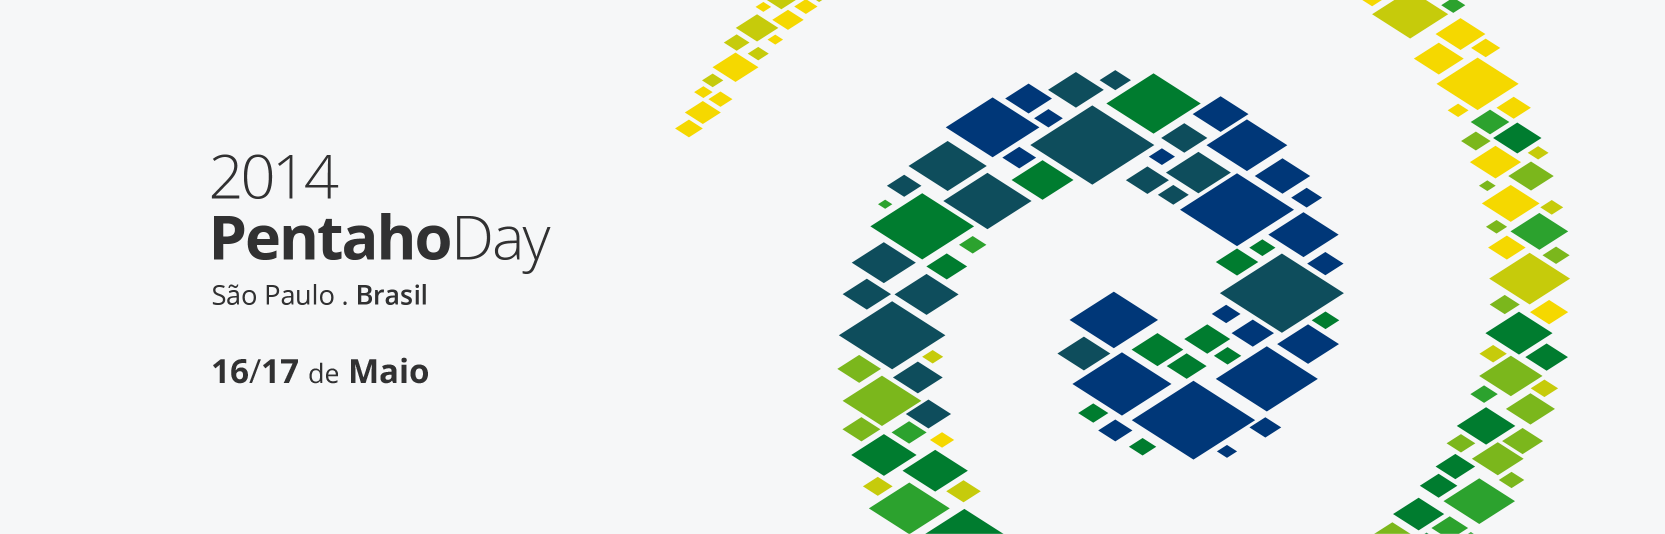
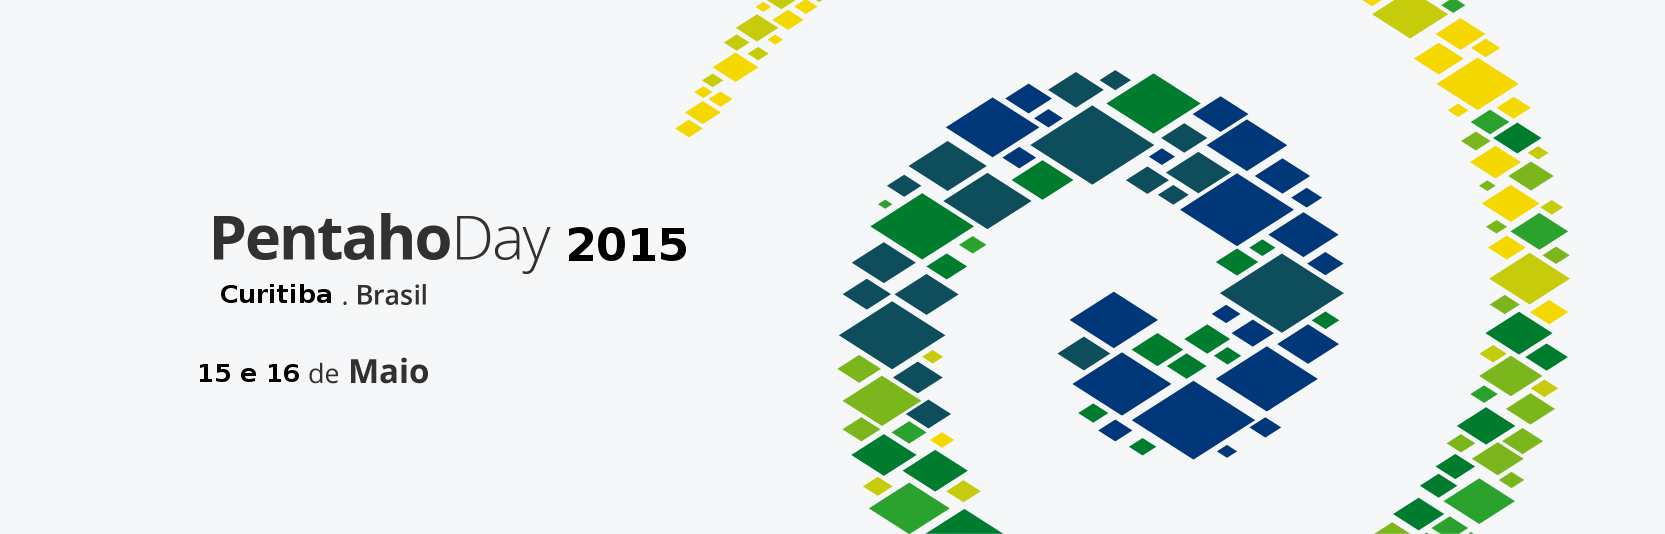
alterado site com informaçoes basicas para 2015

diff --git a/index.html b/index.html
@@ -8,11 +8,11 @@
 	<head>
 		<meta charset="utf-8">
 		<meta http-equiv="X-UA-Compatible" content="IE=edge,chrome=1">
-		<title>Pentaho Day 2014 • Maio 16 e 17 • São Paulo, Brasil</title>
+		<title>Pentaho Day 2015 • Maio 15 e 16 • Curitiba, Brasil</title>
 		<meta name="description" content="This is a community event and includes anyone that has a passion for Pentaho (being EE or CE users) and want to see the huge ammount of amazing stuff that 
 		other people build around the world.">
 		<meta name="viewport" content="width=device-width">
-		<meta property="og:image" content="http://www.pentahobrasil.com.br/eventos/PentahoDay_2014/img/PentahoDay_2014.png" />
+		<meta property="og:image" content="http://www.pentahobrasil.com.br/eventos/PentahoDay_2015/img/PentahoDay_2014.png" />
 		<link href='http://fonts.googleapis.com/css?family=Open+Sans:400,300,600,700,800' rel='stylesheet' type='text/css'>
 		<link rel="stylesheet" href="css/bootstrap.css">
 		<style>
@@ -60,14 +60,18 @@
 				<div class="container">
 					<div class="row">
 						<ul class="tabs">
-						<li id="selected"><a class="programa" href="index.html"><span style="font-weight:300">Programação</span> 16 Maio</a></li>
-						<li><a a class="programa" href="index_17Maio.html"><span style="font-weight:300">Programação</span> 17 Maio</a></li>
+						<li id="selected"><a class="programa" href="index.html"><span style="font-weight:300">Evento e Palestrantes</span></a></li>
+						<li><a a class="programa" href="index.html"><span style="font-weight:300">Programação</span></a></li>
+						<li><a a class="programa" href="/blog/index.php"><span style="font-weight:300">Blog</span></a></li>
 						<li><a a class="programa" href="inscricoes.html"><span style="font-weight:300">Inscreva-se <b>aqui</b></span></a></li>
+
 						</ul>
+<!--
 					<div class="row daysRow">
 						<h2 class="titleSpan">Maio</h2>
-						<div class="span4 date"><img src="img/16.png" alt="17" id="number16"/></div>
+						<div class="span4 date"><img src="img/15.png" alt="17" id="number15"/></div>
 					</div>
+-->
 					</div>
 				</div>
 			<div class="row"></div>
@@ -86,13 +90,13 @@
 			                                       Open Source na plataforma Pentaho.
 					</div>
 					<div class="span4 firstcolumn">
-						Venha fortalecer a sua comunidade, inscreva-se já e faça parte deste evento que acontecerá na FEA-USP, em São Paulo, Brasil.
+						Venha fortalecer a sua comunidade, inscreva-se já e faça parte deste evento que acontecerá na Universidade Positivo, em Curitiba, Brasil.
 					</div>
 				</div>
 				<div class="row">
 					<div class="span4">
 <a href="http://iptv.usp.br/portal/home" target="_blank">
-						<button class="btn span8 trans" id="transmissao">Transmissão online.</button></a>                    </div>
+						<button class="btn span8 trans" id="transmissao">Mini-Cursos</button></a>                    </div>
 					<div class="span8 offset42">
                      <a href="https://pentahoday2014-fea.eventbrite.com" target="_blank">
 						<button class="btn span8 register" id="firstRegister">O evento é gratuito! Faça a sua inscrição!</button></a></span>
@@ -106,10 +110,10 @@
 						<h2>Palestrantes</h2>
 					</div>
 					<div class="span4 firstcolumn">Durante os últimos anos, a Comunidade Pentaho tem se reunido para trocar experiências e se conhecer pessoalmente.</div>
-					<div class="span4 firstcolumn">Conheça aqui quem terá presença marcada neste evento. </div>
+					<div class="span4 firstcolumn">Conheça aqui <B>em Breve</B> quem terá presença marcada neste evento. </div>
 				</div>
                 
-            
+ <!--            
      		<div class="row oradores1">
 				<div class="span2 oradores">
 					<div class="orador-picture" id="picture1">
@@ -147,7 +151,7 @@
 				</div>
 			</div>
             
-                 <!--<div class="span2 oradores" style="">
+                <div class="span2 oradores" style="">
 				<div class="orador-picture" id="picture18">
 					<div class="text_display">
 						<p class="autor">Felipe Dias</p>
@@ -156,7 +160,7 @@
 				</div>
 			</div>-->
             
-            
+<!--            
         </div>
 		<div class="row oradores2">
 			<div class="span2 oradores">
@@ -209,7 +213,7 @@
 		</div>
 
 		<div class="row oradores4">
-        
+-->        
               <!--<div class="span2 oradores" style="">
 				<div class="orador-picture" id="picture7">
 						<div class="text_display">
@@ -218,7 +222,8 @@
 					</div>
 				</div>
 			</div>-->
-                    
+ 
+<!--                   
 			<div class="span2 oradores">
 				<div class="orador-picture" id="picture8">
 					<div class="text_display">
@@ -257,7 +262,7 @@
             
             		
 		</div> 
-        
+  -->      
         
 		<hr>
         <div class="row">
@@ -267,14 +272,15 @@
 			</div>
 			<div class="span8">
 				<a href="PentahoDay_Programa16&17Maio.pdf" target="_blank">
-				<button class="btn span8 pdf" style="margin-top: 23px;" id="secondRegister"><span style="font-weight:600">Pentaho</span>Day - Programa - 16 e 17 de Maio</button>
+				<button class="btn span8 pdf" style="margin-top: 23px;" id="secondRegister"><span style="font-weight:600">Pentaho</span>Day - Programa - 15 e 16 de Maio - EM BREVE PROGRAMAÇÃO</button>
 				</a>
 			</div>
 		</div>
-                
+<!--                
         <hr programa></hr>				   
         <div class="row">
-            <div class="programaseparador">16 MAIO - Welcome Coffee</div>
+            <div class="programaseparador">15 MAIO - Welcome Coffee</div>
+
         </div>
 		<div class="row">
 			<div class="span4">
@@ -470,9 +476,16 @@
 	        </div>
 					<div class="span4 firstcolumn">
 					  <p><span style="font-weight:600">
-					  <!--<a href="http://www.fea.usp.br/conteudo.php?i=508" target="_blank">-->APOIO: Comissão de Pesquisa e Extensão Universitária da FEA-USP<!--</a>--></span><br/>
+
+-->
+					  <!--<a href="http://www.fea.usp.br/conteudo.php?i=508" target="_blank">-->
+
+<!-- APOIO: Comissão de Pesquisa e Extensão Universitária da FEA-USP --> <!--</a>-->
+<!-- 
+</span><br/>
 					  Av. Prof. Luciano Gualberto, 908 <br/>São Paulo<br/>
 					     +55 11 3091-5872 </p>
+-->
                     </div>
 			</div>
 			<div class="row">
@@ -499,9 +512,9 @@
  			<div class="row">
  				<div class="span6 linkLogoI">
 					<div class="row">
-						<div class="span2 linkLogoSinn"><a href="http://www.sinn.com.br/" target="_blank"><img src="img/sinn_logo.png" alt="" /></a></div>
+						<div class="span2 linkLogoUP"><a href="http://www.up.edu.br" target="_blank"><img src="img/universidade_positivo.png" alt="" /></a></div>
                         
-                        
+<!--                        
                                                 <div class="span2 linkLogoAmbiente"><a href="http://www.ambientelivre.com.br/" target="_blank"><img src="img/ambiente_logo.png" alt="" /></a></div>
                         
                         <div class="span2 linkLogoOn"><a href="http://www.oncase.com.br/" target="_blank"><img src="img/oncase_logo.png" alt="" /></a></div>
@@ -517,21 +530,19 @@
                         <div class="span2 linkLogoKnow"><a href="http://www.knowsolution.com.br/" target="_blank"><img src="img/KnowSolutions.png" alt="" /></a></div>
                         					</div>
 				</div>
-                
-
-
+ -->               
 
                 <div class="linkLogoII">
-                
                 <hr class="lastHr"/>
 
 			<div class="row">
 				<div class="span2 apoio"><strong>Apoio</strong></div>
 				<div class="span4 realizacao"><strong>Realização</strong></div>
             </div>
-					<div class="span2 linkLogoUsp"><a href="http://www5.usp.br/" target="_blank"><img src="img/usp2_logo.png" alt="" /></a></div>
-					<div class="span2 linkLogoIt4biz"><a href="http://www.it4biz.com.br/" target="_blank"><img src="img/it4biz_logo.png" alt="" /></a></div>
-                    <div class="span2 linkLogoFea"><a href="http://www.fea.usp.br/" target="_blank"><img src="img/fea_usp_logo.png" alt="" /></a></div>
+					<div class="span2 linkLogoSucesu"><a href="http://www.prsucesu.org.br" target="_blank"><img src="img/sucesu-pr.jpg" alt="" /></a></div>
+					<div class="span2 linkLogoAssespro"><a href="http://www.assespropr.org.br" target="_blank"><img src="img/assespro.jpg" alt="" /></a></div>
+                    <div class="span2 linkLogoGrupo"><a href="https://br.groups.yahoo.com/neo/groups/pentahobr/info" target="_blank"><img src="img/grupo.png" alt="" /></a></div>
+					<div class="span2 linkLogoAmbiente"><a href="http://www.ambientelivre.com.br" target="_blank"><img src="img/ambiente_logo.png" alt="" /></a></div>
                     <div class="span2 linkLogoPentaho"><a href="http://www.pentaho.com/" target="_blank"><img src="img/penta_logo.png" alt="" /></a></div>
 			</div>
             </div>

diff --git a/css/main.css b/css/main.css
@@ -780,55 +780,55 @@ margin-top: 17px;
 	margin-left:40px;
 }
 
-#picture1 { background: url(../img/orador01.png) no-repeat; }
+#picture1 { background: url(../img/orador00.png) no-repeat; }
    
-#picture2 { background: url(../img/orador02.png) no-repeat; }  
+#picture2 { background: url(../img/orador00.png) no-repeat; }  
    
 #picture3 { background: url(../img/orador00.png) no-repeat; }
 
-#picture4 { background: url(../img/orador04.png) no-repeat; }
+#picture4 { background: url(../img/orador00.png) no-repeat; }
 
-#picture5 { background: url(../img/orador25.png) no-repeat; }
+#picture5 { background: url(../img/orador00.png) no-repeat; }
 
-#picture6 { background: url(../img/orador06.png) no-repeat; }  
+#picture6 { background: url(../img/orador00.png) no-repeat; }  
 
-#picture7 { background: url(../img/orador26.png) no-repeat; }
+#picture7 { background: url(../img/orador00.png) no-repeat; }
 
-#picture8 { background: url(../img/orador08.png) no-repeat; }
+#picture8 { background: url(../img/orador00.png) no-repeat; }
 
-#picture9 { background: url(../img/orador09.png) no-repeat; } 
+#picture9 { background: url(../img/orador00.png) no-repeat; } 
 
-#picture10 { background: url(../img/orador10.png) no-repeat; }
+#picture10 { background: url(../img/orador00.png) no-repeat; }
 
-#picture11 { background: url(../img/orador11.png) no-repeat; }
+#picture11 { background: url(../img/orador00.png) no-repeat; }
 		
-#picture12 { background: url(../img/orador12.png) no-repeat; }
+#picture12 { background: url(../img/orador00.png) no-repeat; }
 		
-#picture13 { background: url(../img/orador13.png) no-repeat; }
+#picture13 { background: url(../img/orador00.png) no-repeat; }
 		
-#picture14 { background: url(../img/orador14.png) no-repeat; }
+#picture14 { background: url(../img/orador00.png) no-repeat; }
 			
-#picture15 { background: url(../img/orador15.png) no-repeat; }
+#picture15 { background: url(../img/orador00.png) no-repeat; }
 		
-#picture16 { background: url(../img/orador16.png) no-repeat; }
+#picture16 { background: url(../img/orador00.png) no-repeat; }
 
-#picture17 { background: url(../img/orador17.png) no-repeat; }	
+#picture17 { background: url(../img/orador00.png) no-repeat; }	
 		
-#picture18 { background: url(../img/orador18.png) no-repeat; }
+#picture18 { background: url(../img/orador00.png) no-repeat; }
    
-#picture19 { background: url(../img/orador19.png) no-repeat; }
+#picture19 { background: url(../img/orador00.png) no-repeat; }
 
-#picture20 { background: url(../img/orador20.png) no-repeat; }
+#picture20 { background: url(../img/orador00.png) no-repeat; }
    
-#picture21 { background: url(../img/orador21.png) no-repeat; }
+#picture21 { background: url(../img/orador00.png) no-repeat; }
    
-#picture22 { background: url(../img/orador18.png) no-repeat; }
+#picture22 { background: url(../img/orador00.png) no-repeat; }
 
-#picture23{ background:url(../img/orador22.png) no-repeat; }
+#picture23{ background:url(../img/orador00.png) no-repeat; }
 
-#picture24{ background:url(../img/orador23.png) no-repeat; }
+#picture24{ background:url(../img/orador00.png) no-repeat; }
 
-#picture25{ background:url(../img/orador24.png) no-repeat; }
+#picture25{ background:url(../img/orador00.png) no-repeat; }
 
 
 		
@@ -888,6 +888,12 @@ margin-top: 17px;
 }
 
 
+.linkLogoUp{
+	width:60px;
+	margin-right:100px;
+}
+
+
 .linkLogoDWSL{
 	width:50px;
 	margin-right: 90px;
@@ -911,9 +917,14 @@ margin-top: 17px;
 }
 
 .linkLogoAmbiente{
-	width: 90px;
-    margin-top: -6px;
-    margin-left: 15px;
+	width:85px;
+	margin-top: 3px;
+	margin-right: 20px;
+}
+
+.linkLogoGrupo{
+	width:85px;
+	margin-top: 3px;
 	margin-right: 20px;
 }
 
@@ -926,30 +937,26 @@ margin-top: 17px;
 }
 
 
-.linkLogoUsp{
+.linkLogoSucesu{
+/*
 	width:58px;
 	margin-left: 0px;
 	margin-right: 500px;
 	margin-top: -3px;
+*/
 }
 
-.linkLogoIt4biz{
-	width:65px;
-	margin-top: 3px;
-margin-right: 20px;
+.linkLogoAssespro{
+	width:90px;
+	margin-left: 10px;
+	margin-right: 300px;
+	margin-top: -3px;
 }
 
-.linkLogoFea{
-	width:100px;
-	margin-top: 3px;
-    margin-right: 30px;
-    margin-left: 25px;
-}
 
 .linkLogoPentaho{
 	width:92px;
 	margin-top: 3px;
-	
 }
 
 .tabs{
